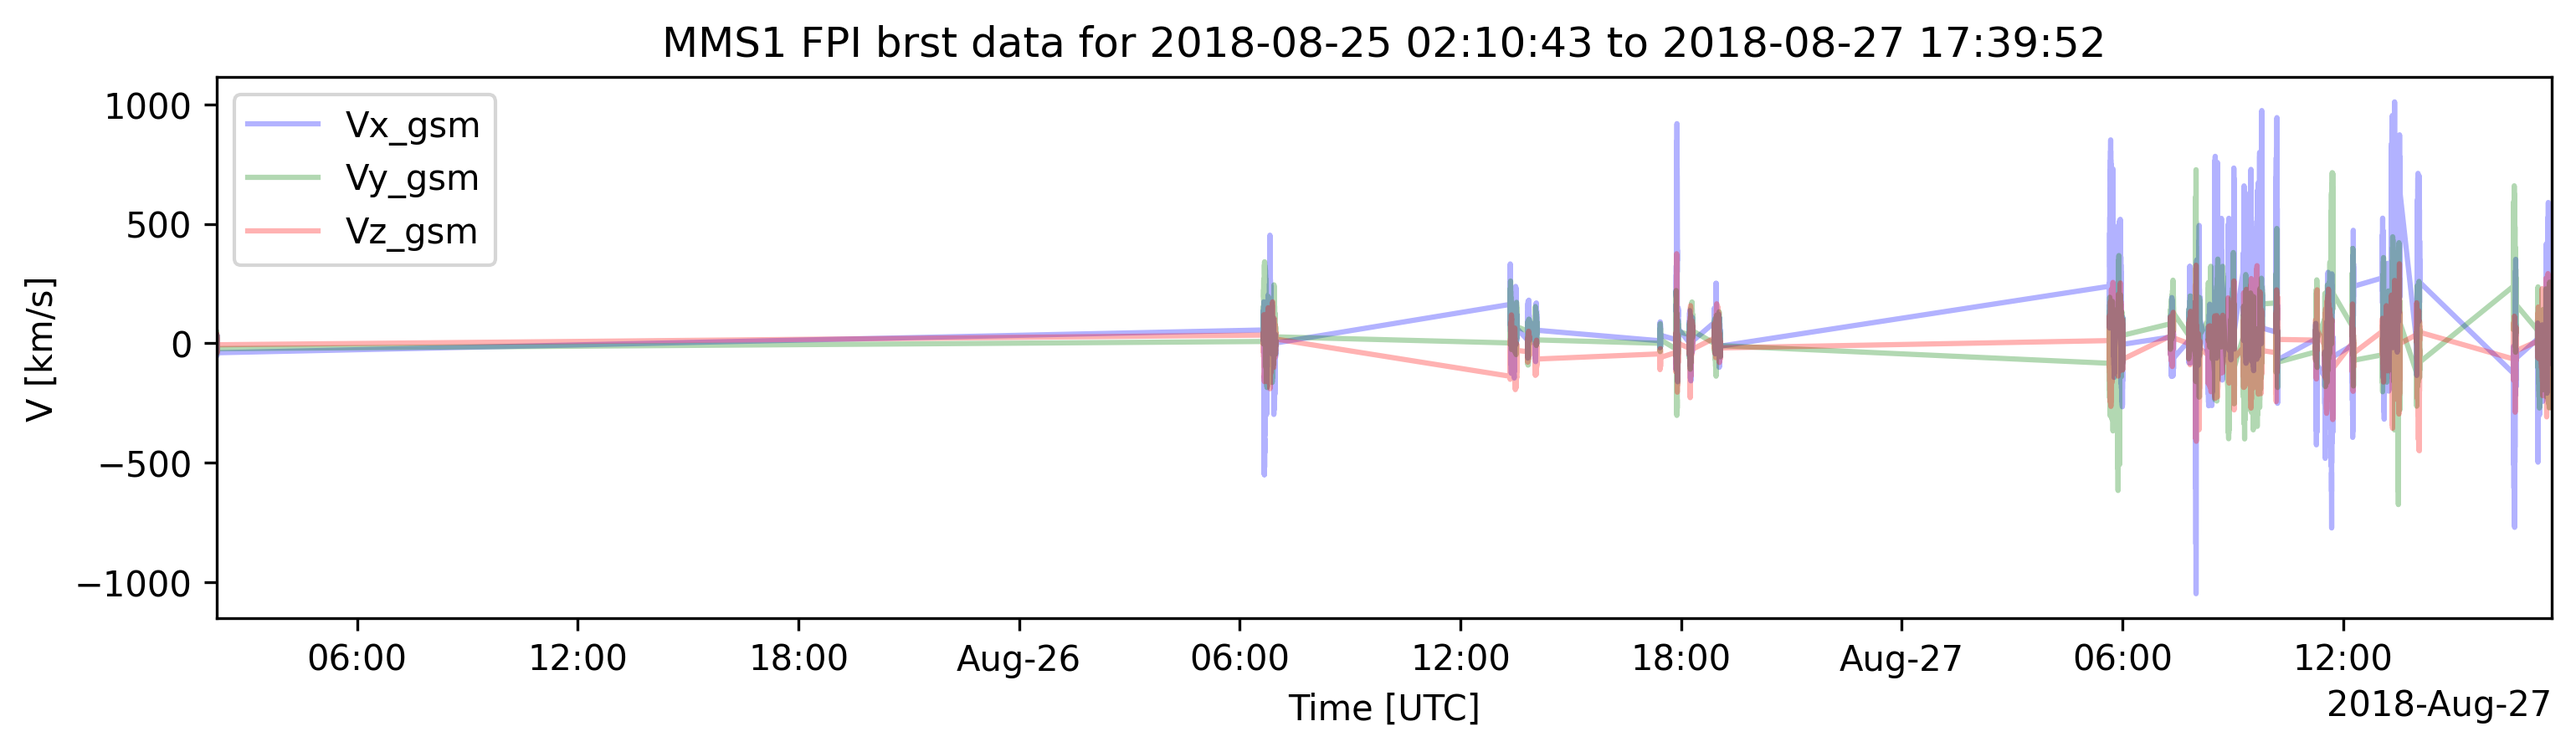
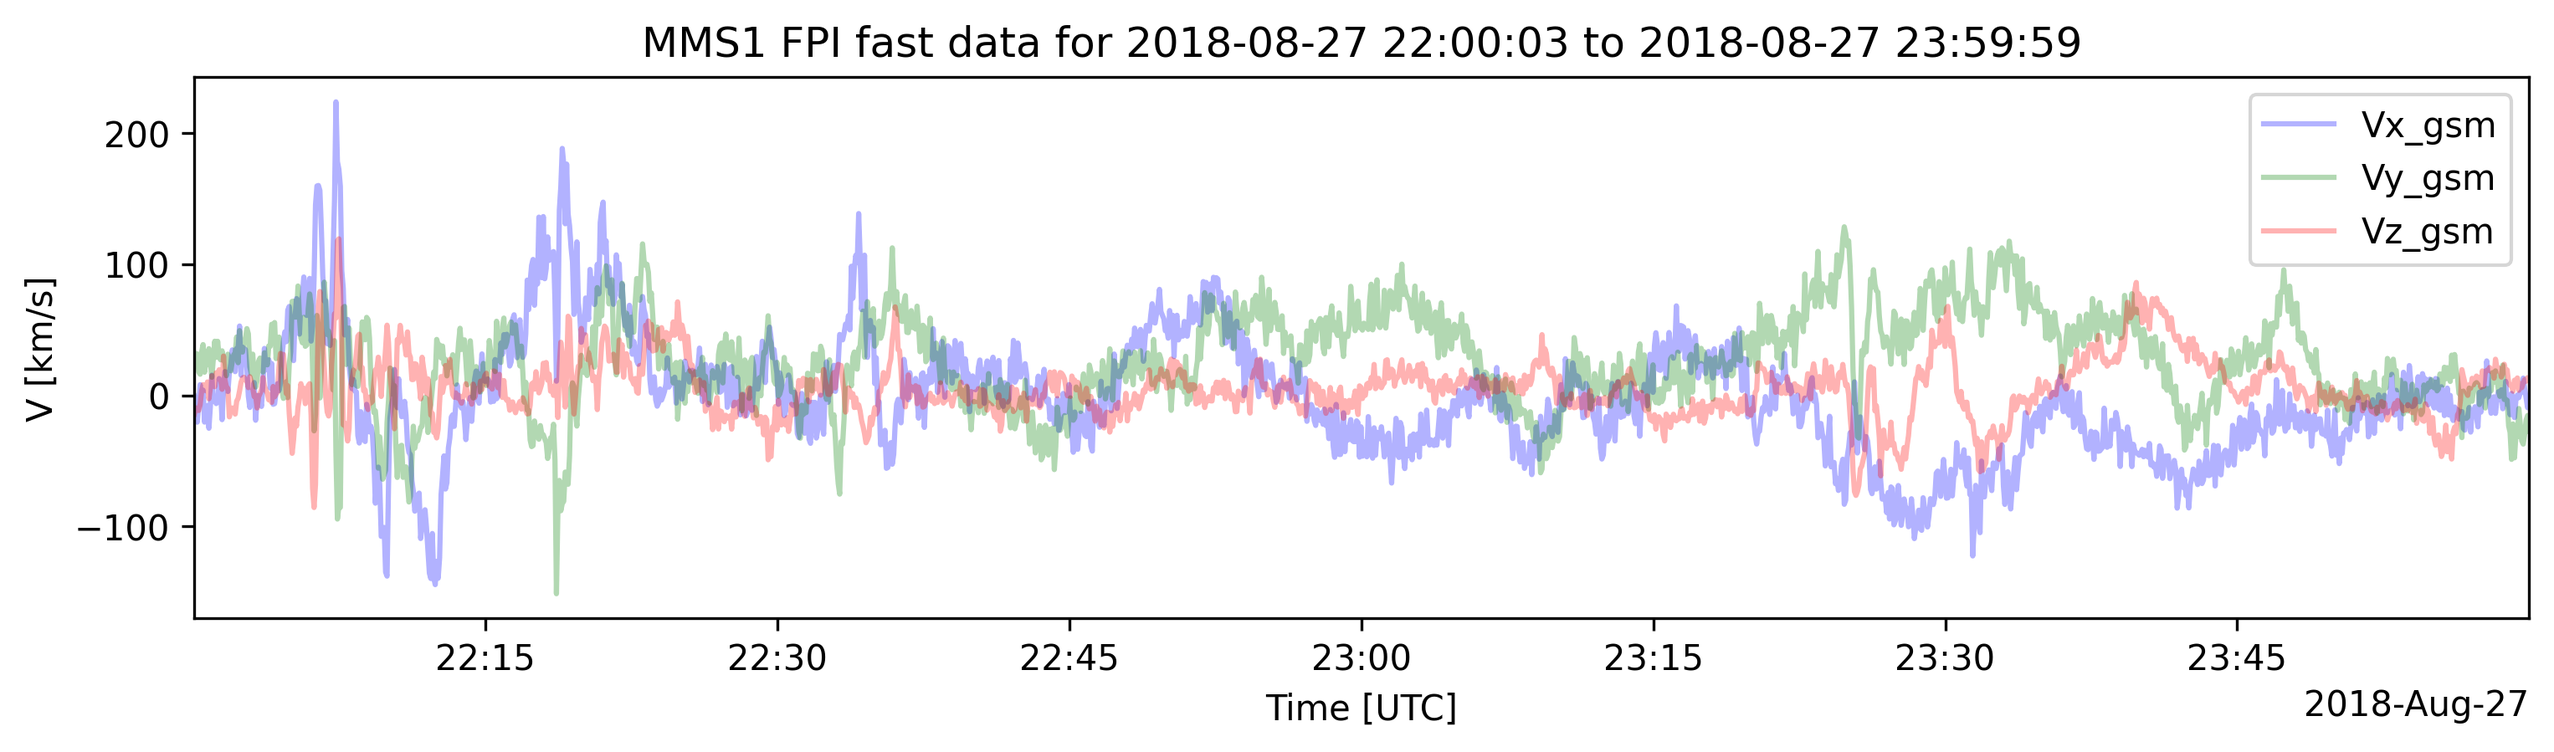
modified:   spd_test_brst.py 	modified:   ../figures/fpi_data.png

diff --git a/codes/spd_test_brst.py b/codes/spd_test_brst.py
@@ -71,7 +71,7 @@ ax[3].legend()
 plt.savefig(f"../figures/fgm_data_01.png", dpi=300, bbox_inches="tight")
 plt.close("all")
 """
-data_rate = 'brst'
+data_rate = 'fast'
 data_type = ['des-moms', 'dis-moms']
 mms_fpi_varnames = [f'mms{probe}_dis_bulkv_gse_{data_rate}', f'mms{probe}_dis_bulkv_gsm_{data_rate}',
                     f'mms{probe}_dis_bulkv_gsm_lmn_{data_rate}', f'mms{probe}_dis_bulkv_gse_lmn_{data_rate}']
@@ -97,7 +97,7 @@ _ = spd.cotrans(name_in=f'mms{probe}_dis_bulkv_gse_{data_rate}',
 fpi_time_unix = ptt.get_data(mms_fpi_varnames[0])[0]
 fpi_v_gse = ptt.get_data(mms_fpi_varnames[0])[1:][0]
 fpi_v_gsm = ptt.get_data(mms_fpi_varnames[1])[1:][0]
-fpi_v_gsm_lmn = ptt.get_data(mms_fpi_varnames[2])[1:][0]
+#fpi_v_gsm_lmn = ptt.get_data(mms_fpi_varnames[2])[1:][0]
 #fpi_v_gse_lmn = ptt.get_data(mms_fpi_varnames[3])[1:][0]
 
 fpi_time_utc = spd.time_datetime(fpi_time_unix)
@@ -118,9 +118,9 @@ plt.figure(figsize=(12, 2.8))
 # plt.plot(fpi_time_utc, fpi_v_gse_lmn[:, 1], label='Vm_gse_lmn', lw=2, alpha=1, color='b')
 # plt.plot(fpi_time_utc, fpi_v_gse_lmn[:, 2], label='Vn_gse_lmn', lw=2, alpha=1, color='g')
 
-plt.plot(fpi_time_utc, fpi_v_gsm_lmn[:, 0], label='Vl_gsm_lmn', lw=1.5, alpha=0.3, color='b')
-plt.plot(fpi_time_utc, fpi_v_gsm_lmn[:, 1], label='Vm_gsm_lmn', lw=1.5, alpha=0.3, color='g')
-plt.plot(fpi_time_utc, fpi_v_gsm_lmn[:, 2], label='Vn_gsm_lmn', lw=1.5, alpha=0.3, color='r')
+plt.plot(fpi_time_utc, fpi_v_gsm[:, 0], label='Vx_gsm', lw=1.5, alpha=0.3, color='b')
+plt.plot(fpi_time_utc, fpi_v_gsm[:, 1], label='Vy_gsm', lw=1.5, alpha=0.3, color='g')
+plt.plot(fpi_time_utc, fpi_v_gsm[:, 2], label='Vz_gsm', lw=1.5, alpha=0.3, color='r')
 
 
 plt.xlabel('Time [UTC]')
